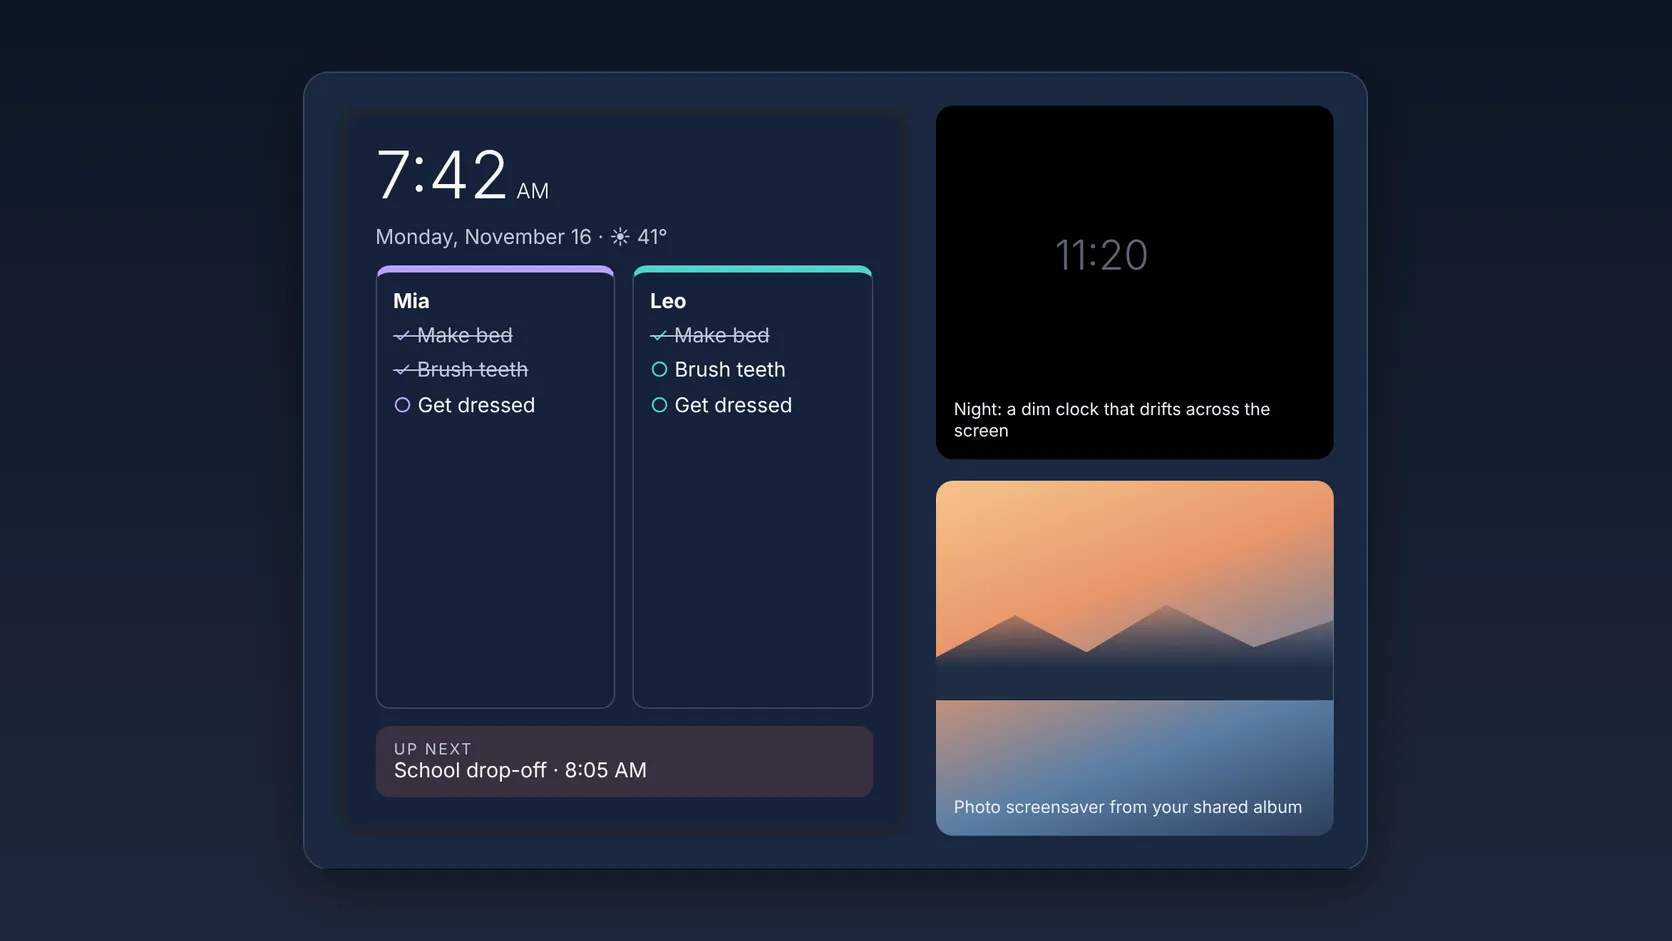
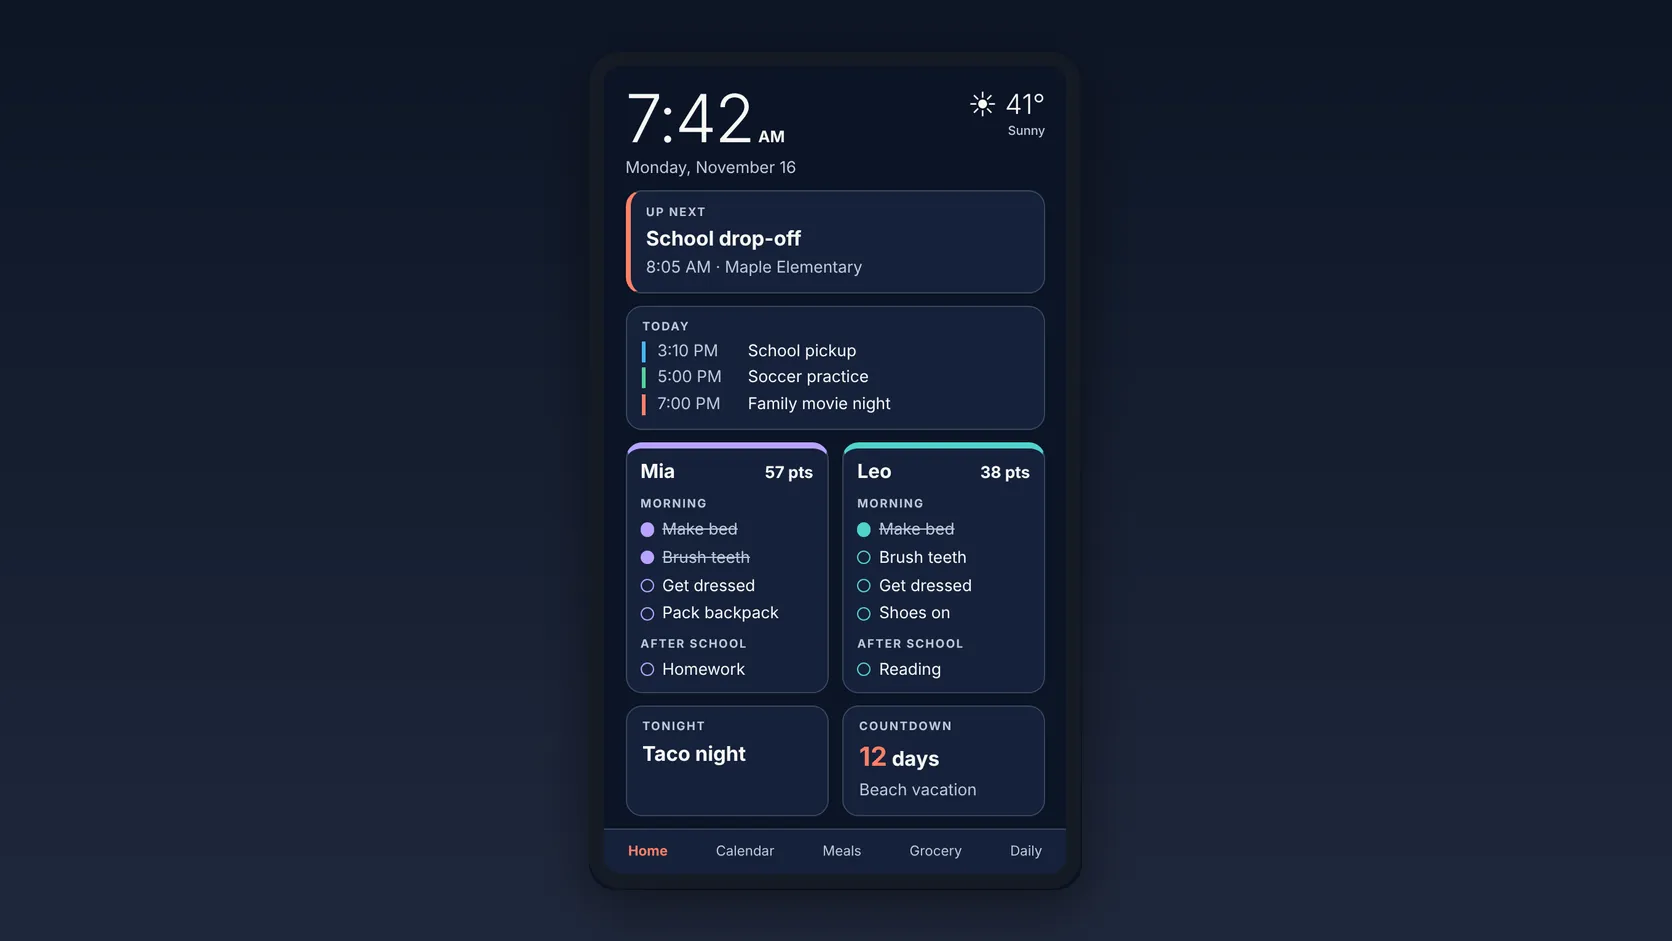
Redraw the Wall display as a tall Wall home screen (#41)
The Features page and the hero slide now show the Wall the way it really
looks: a tall portrait screen with the time and weather, up next, today's
events, both kids' Daily lists with points, tonight's dinner, a countdown
and the tab bar. Follows Light, Dark and the accent color. Made-up family.

Claude-Session: https://claude.ai/code/session_014QravBeiuRJ127Sut6nYsd

diff --git a/features.html b/features.html
@@ -196,15 +196,15 @@ html[data-mode="light"] .help-action{color:var(--accent-ink)}
 .sticky{transform:rotate(var(--r,0));border-radius:6px;padding:.9em;color:#2b2a26;line-height:1.35;box-shadow:0 6px 14px -8px #0007}.sticky b{display:block;margin-bottom:.3em}
 .sticky.y{background:#fde68a}.sticky.p{background:#fbcfe8}.sticky.b{background:#bfdbfe}.sticky.g{background:#bbf7d0}
 .sticky.add{background:transparent;border:2px dashed color-mix(in srgb,var(--text) 35%,transparent);color:var(--text);display:flex;align-items:center;justify-content:center;box-shadow:none;font-weight:700}
-.drawn.wall{flex-direction:row;align-items:stretch}
-.wallframe{flex:1.25;border:.6em solid #1d2433;border-radius:16px;background:var(--surface);padding:1.3em;display:flex;flex-direction:column;gap:.8em}
-.wtime{font-size:3.2em;font-weight:300;line-height:1}.wtime small{font-size:.32em;margin-left:.3em}.wdate{color:var(--soft)}
-.wcols{display:grid;grid-template-columns:1fr 1fr;gap:.8em;flex:1}.wcol{border:1px solid var(--line);border-radius:10px;padding:.8em;display:flex;flex-direction:column;gap:.5em;border-top:.35em solid var(--c)}
-.wcol span{white-space:nowrap;overflow:hidden;text-overflow:ellipsis}.wcol span:before{content:"○ ";color:var(--c)}.wcol span.done{color:var(--soft);text-decoration:line-through}.wcol span.done:before{content:"✓ "}
-.wnext{border-radius:10px;padding:.7em .9em;background:color-mix(in srgb,var(--accent) 16%,var(--surface))}.wnext small{display:block;color:var(--soft);letter-spacing:.12em;font-size:.75em}
-.wallside{flex:1;display:flex;flex-direction:column;gap:1em}.mini{flex:1;border-radius:12px;display:flex;flex-direction:column;justify-content:flex-end;padding:.9em;color:#e8ecf4;position:relative;overflow:hidden}
-.mini small{position:relative}.mini.night{background:#000}.mini.night span{position:absolute;top:35%;left:30%;font-size:2em;color:#5b6475;font-weight:300}
-.mini.photo{background:linear-gradient(160deg,#f6c38b 0%,#e8956b 35%,#5b7fa6 70%,#2c3e5c 100%)}.mini.photo span{position:absolute;bottom:38%;left:0;right:0;height:30%;background:linear-gradient(180deg,transparent,#1f2d44 70%);clip-path:polygon(0 60%,20% 20%,38% 55%,58% 10%,80% 50%,100% 25%,100% 100%,0 100%)}
+
+
+
+
+
+
+
+
+
 .drawn.widgets{padding:0;background:linear-gradient(150deg,#3b4f7a,#7d5a8c 55%,#c27c6a)}
 .hs{flex:1;display:grid;grid-template-columns:1fr 1fr;align-content:center;gap:1em;padding:1.6em 18%}
 .wg{background:color-mix(in srgb,var(--surface) 92%,transparent);border-radius:16px;padding:.9em 1em;display:flex;flex-direction:column;gap:.2em;color:var(--text)}.wg.wide{grid-column:span 2}
@@ -213,6 +213,26 @@ html[data-mode="light"] .help-action{color:var(--accent-ink)}
 .apps{grid-column:span 2;display:flex;justify-content:space-around;margin-top:.6em}.apps i{width:2.6em;height:2.6em;border-radius:30%;background:#ffffff40}
 @media(max-width:900px){.fgrid,.fsec.flip .fgrid{grid-template-columns:1fr;gap:26px}.fsec.flip .ftext{order:0}.drawn{font-size:clamp(.55rem,2.2vw,.9rem)}.fsec{padding:44px 0}}
 @media(max-width:680px){.fshot:not(.drawn){aspect-ratio:1/2;max-width:300px;margin:0 auto;border-radius:26px}.fhero{padding:40px 0 16px}.hs{padding:1.2em 8%}.board{grid-template-columns:repeat(2,1fr)}.board .sticky:nth-child(n+5){display:none}}
+
+.drawn.wallp{align-items:center;aspect-ratio:auto;background:transparent;border:0;box-shadow:none;padding:0;display:flex;justify-content:center;overflow:visible}
+.ws{container-type:inline-size;width:min(100%,400px);aspect-ratio:1080/1840;border:12px solid #151a24;border-radius:26px;background:var(--bg);box-shadow:0 30px 60px -28px #000a;overflow:hidden}.wsi{height:100%;color:var(--text);padding:5cqw 4.6cqw 0;display:flex;flex-direction:column;gap:2.6cqw;font-size:3.5cqw;line-height:1.28}
+.ws small{display:block;font-size:.72em;letter-spacing:.12em;font-weight:750;color:var(--muted)}
+.wshead{display:flex;justify-content:space-between;align-items:flex-start}
+.wst{font-size:4.1em;font-weight:300;line-height:.95;letter-spacing:-.03em}.wst small{display:inline;font-size:.24em;letter-spacing:0;margin-left:.3em;color:var(--text)}
+.wsd{color:var(--muted);margin-top:.4em}.wsw{text-align:right;font-size:1.7em;font-weight:300}.wsw small{letter-spacing:0;font-size:.45em;font-weight:500}
+.wscard{background:var(--surface);border:1px solid var(--line);border-radius:3.5cqw;padding:3cqw 3.4cqw;display:flex;flex-direction:column;gap:.35em}
+.wscard b{font-size:1.25em}.wscard span{color:var(--muted)}.wsup{border-left:1.2cqw solid var(--accent)}
+.wsev{display:grid;grid-template-columns:5.6em 1fr;align-items:center;padding-left:.7em;border-left:.3em solid var(--c)}.wsev em{font-style:normal;color:var(--muted)}.wsev span{color:var(--text)}
+.wskids{display:grid;grid-template-columns:1fr 1fr;gap:3cqw;flex:1;min-height:0}
+.wskid{background:var(--surface);border:1px solid var(--line);border-top:1.4cqw solid var(--c);border-radius:3.5cqw;padding:2.6cqw 3cqw;display:flex;flex-direction:column;gap:.45em;overflow:hidden}
+.wskh{display:flex;justify-content:space-between;align-items:baseline}.wskh b{font-size:1.2em}.wskh em{font-style:normal;font-weight:700;color:var(--text)}
+.wskid small{margin-top:.5em}.wskid span{white-space:nowrap;overflow:hidden;text-overflow:ellipsis}
+.wskid span:before{content:"";display:inline-block;width:.85em;height:.85em;border-radius:50%;border:.13em solid var(--c);margin-right:.5em;vertical-align:-.1em;box-sizing:border-box}
+.wskid span.d{color:var(--muted);text-decoration:line-through}.wskid span.d:before{background:var(--c)}
+.wsrow{display:grid;grid-template-columns:1fr 1fr;gap:3cqw}.wsrow i{font-style:normal;color:var(--accent-ink,var(--accent));font-size:1.3em}
+.wstabs{display:flex;justify-content:space-around;margin:auto -4.6cqw 0;padding:2.6cqw 0 3.2cqw;border-top:1px solid var(--line);background:var(--surface);font-size:.85em;color:var(--muted)}
+.wstabs i{font-style:normal}.wstabs i.on{color:var(--accent-ink,var(--accent));font-weight:750}
+@media(max-width:680px){.ws{width:min(100%,320px)}}
 </style></head><body><div class="nav"><nav aria-label="Main navigation" class="wrap bar"><a class="logo" href="index.html" aria-label="Kindlane — by Adaver Technologies"><img class="kindlane-icon" src="kindlane-brand-mark.svg" width="34" height="34" alt="" aria-hidden="true"/><span class="kindlane-wordmark">Kindlane</span></a><div class="links"><a href="features.html" aria-current="page">Features</a><a href="index.html#downloads">Download</a><a href="releases.html">Release Center</a><a href="index.html#help">Help &amp; Support</a><a href="web.html" id="nav-web-guide">Device guide</a></div><div class="controls"><a class="hdr-signin" id="header-sign-in" href="https://family-hub-7cb05.web.app/">Sign In</a><a class="hdr-cta" id="header-get-started" href="get-started.html">Get Started</a><div aria-label="Color mode" class="toggle" role="group"><button aria-pressed="true" data-mode-choice="dark" type="button">Dark</button><button aria-pressed="false" data-mode-choice="light" type="button">Light</button></div><div aria-label="Accent color" class="swatches" role="group"><button aria-label="Coral" aria-pressed="true" data-color="coral" style="background:#ff8067" type="button"></button><button aria-label="Ocean" aria-pressed="false" data-color="ocean" style="background:#48b7f1" type="button"></button><button aria-label="Meadow" aria-pressed="false" data-color="meadow" style="background:#54d59c" type="button"></button><button aria-label="Plum" aria-pressed="false" data-color="plum" style="background:#b38af1" type="button"></button></div></div></nav><div class="mobile-shortcuts" aria-label="Quick help links"><a class="m-cta" href="get-started.html" id="mobile-get-started">Get Started</a><a href="install.html">Install <span aria-hidden="true">↗</span></a><a href="hearth.html">Hearth <span aria-hidden="true">↗</span></a><a href="help.html">Help Center <span aria-hidden="true">↗</span></a><a href="https://family-hub-7cb05.web.app/" id="mobile-sign-in">Sign In <span aria-hidden="true">↗</span></a></div></div>
 
 <main id="top"><section class="fhero"><div class="wrap"><div class="eyebrow">Features</div><h1>Everything your family runs on.</h1><p class="lead">One home for the calendar, routines, meals, groceries and the little jobs in between. Here is what each part does.</p>
@@ -231,13 +251,17 @@ html[data-mode="light"] .help-action{color:var(--accent-ink)}
 <div class="sticky g" style="--r:2deg"><b>Leo</b>Library books are due Tuesday</div>
 <div class="sticky y" style="--r:-1.5deg"><b>Wifi for guests</b>On the fridge card</div>
 <div class="sticky add">+ New note</div></div></div></div></div></section>
-<section class="fsec flip" id="wall" aria-labelledby="wall-h"><div class="wrap fgrid"><div class="ftext"><div class="eyebrow">Wall display</div><h2 id="wall-h">Made for the kitchen wall.</h2><p>Mount a tablet and Kindlane becomes the family's home base.</p><ul class="fpoints"><li>A morning screen with each kid's tasks</li><li>Dims to a quiet clock at night</li><li>Photo screensaver from your shared album</li><li>Big, easy to read cards from across the room</li></ul><p class="fwhere">Android tablets and wall displays</p></div><div class="fmedia"><div class="fshot drawn wall" role="img" aria-label="Drawing of a wall-mounted tablet showing the morning screen with each kid's morning tasks, the time and the weather, using made-up content.">
-<div class="wallframe"><div class="wtime">7:42<small>AM</small></div><div class="wdate">Monday, November 16 · ☀ 41°</div>
-<div class="wcols"><div class="wcol" style="--c:#B9A2FF"><b>Mia</b><span class="done">Make bed</span><span class="done">Brush teeth</span><span>Get dressed</span></div>
-<div class="wcol" style="--c:#4FD3CC"><b>Leo</b><span class="done">Make bed</span><span>Brush teeth</span><span>Get dressed</span></div></div>
-<div class="wnext"><small>UP NEXT</small>School drop-off · 8:05 AM</div></div>
-<div class="wallside"><div class="mini night"><span>11:20</span><small>Night: a dim clock that drifts across the screen</small></div>
-<div class="mini photo"><span></span><small>Photo screensaver from your shared album</small></div></div></div></div></div></section>
+<section class="fsec flip" id="wall" aria-labelledby="wall-h"><div class="wrap fgrid"><div class="ftext"><div class="eyebrow">Wall display</div><h2 id="wall-h">Made for the kitchen wall.</h2><p>Mount a tablet and Kindlane becomes the family's home base.</p><ul class="fpoints"><li>A morning screen with each kid's tasks</li><li>Dims to a quiet clock at night</li><li>Photo screensaver from your shared album</li><li>Big, easy to read cards from across the room</li></ul><p class="fwhere">Android tablets and wall displays</p></div><div class="fmedia"><div class="fshot drawn wallp" role="img" aria-label="Drawing of the Kindlane Wall home screen on a tall wall-mounted tablet: the time and weather, up next, today's events, Mia and Leo's Daily lists with points, tonight's dinner and a countdown, for a made-up family.">
+<div class="ws"><div class="wsi"><div class="wshead"><div><div class="wst">7:42<small>AM</small></div><div class="wsd">Monday, November 16</div></div><div class="wsw"><span aria-hidden="true">☀</span> 41°<small>Sunny</small></div></div>
+<div class="wscard wsup"><small>UP NEXT</small><b>School drop-off</b><span>8:05 AM · Maple Elementary</span></div>
+<div class="wscard"><small>TODAY</small>
+<div class="wsev" style="--c:#48B7F1"><em>3:10 PM</em><span>School pickup</span></div>
+<div class="wsev" style="--c:#54D59C"><em>5:00 PM</em><span>Soccer practice</span></div>
+<div class="wsev" style="--c:#FF8067"><em>7:00 PM</em><span>Family movie night</span></div></div>
+<div class="wskids"><div class="wskid" style="--c:#B9A2FF"><div class="wskh"><b>Mia</b><em>57 pts</em></div><small>MORNING</small><span class="d">Make bed</span><span class="d">Brush teeth</span><span>Get dressed</span><span>Pack backpack</span><small>AFTER SCHOOL</small><span>Homework</span></div>
+<div class="wskid" style="--c:#4FD3CC"><div class="wskh"><b>Leo</b><em>38 pts</em></div><small>MORNING</small><span class="d">Make bed</span><span>Brush teeth</span><span>Get dressed</span><span>Shoes on</span><small>AFTER SCHOOL</small><span>Reading</span></div></div>
+<div class="wsrow"><div class="wscard"><small>TONIGHT</small><b>Taco night</b></div><div class="wscard"><small>COUNTDOWN</small><b><i>12</i> days</b><span>Beach vacation</span></div></div>
+<div class="wstabs" aria-hidden="true"><i class="on">Home</i><i>Calendar</i><i>Meals</i><i>Grocery</i><i>Daily</i></div></div></div></div></div></div></section>
 <section class="fsec" id="widgets" aria-labelledby="widgets-h"><div class="wrap fgrid"><div class="ftext"><div class="eyebrow">Widgets</div><h2 id="widgets-h">Kindlane on your home screen.</h2><p>See what matters without opening the app.</p><ul class="fpoints"><li>Next up on the calendar</li><li>Tonight's dinner</li><li>The grocery list</li><li>The kids' Daily lists</li></ul><p class="fwhere">Android</p></div><div class="fmedia"><div class="fshot drawn widgets" role="img" aria-label="Drawing of an Android home screen with four Kindlane widgets: Next up, tonight's dinner, the grocery list and the kids' Daily lists, using made-up content.">
 <div class="hs"><div class="wg wide"><small>NEXT UP</small><b>Soccer practice</b><span>5:00 PM · Riverside Park</span></div>
 <div class="wg"><small>DINNER</small><b>Taco night</b><span>Tomorrow: Spaghetti</span></div>
